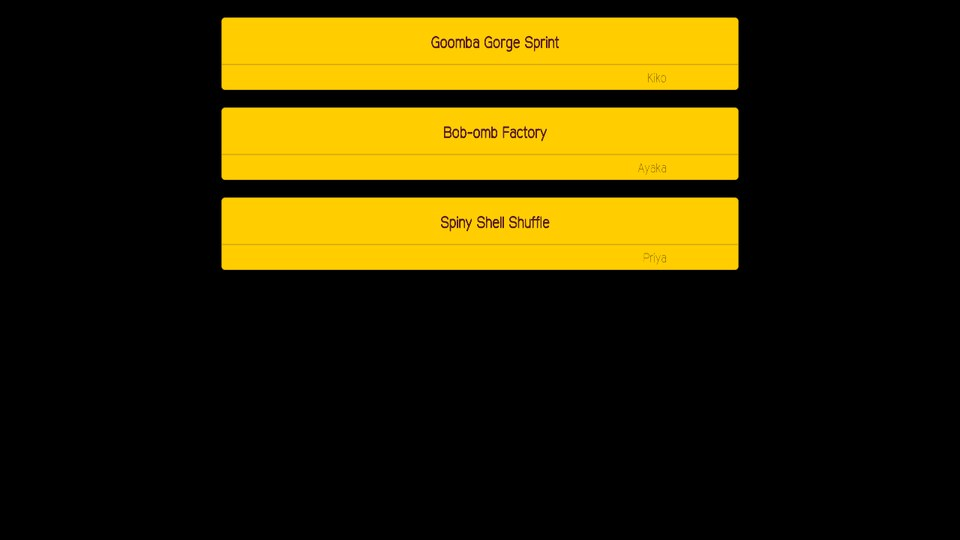
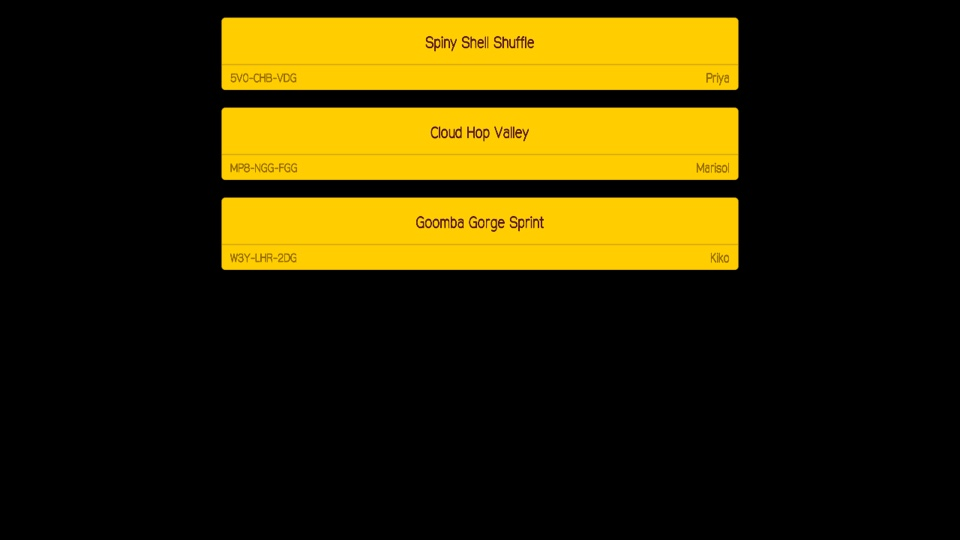
100 Mario credits: each card shows the course ID and the maker the way SMM2's own course card does
The credits' SMM2 course cards (Play_CourseIn_00) now lay out the maker strip as the game does
in Endless: the course ID on the left (new hundred_credit.code, from the data id), the maker's
name on the right, moved into the Mii's empty slot, and the course name centred. The name and
the ID are drawn at the course name's weight. Their border-less brown was a hairline at the
roll's 0.6 scale.

Makefile: game objects now depend on the game's own headers. Before, a struct that grew in
hundred.h left bridge.c stale, and the run start aborted (stack protector).

README credits screenshot retaken on macOS (Metal) with an unattended Super Expert run against
the demo-name test server.

diff --git a/recomp/games/smm2/mods/smm1/ending.c b/recomp/games/smm2/mods/smm1/ending.c
@@ -8,8 +8,9 @@
 //    rows, InOut 1420 frames, "END") for Normal and Expert, _01 (8 rows, 1020, "TO BE CONTINUED...") for Easy, _03
 //    (6 rows, 1020, "THE END") for Super Expert - listing each cleared course (name, maker) under "Course Design".
 //    Each row is drawn in SMM2's look instead of SMM1's Mii row (owner, 2026-10-19: the makers' Miis are not there):
-//    SMM2's own course card (Play_CourseIn_00 from the game's romfs: the yellow course-name banner with the maker
-//    underneath, no Mii, no flag), placed where SMM1's row is on each frame, so the roll keeps SMM1's timing.
+//    SMM2's own course card (Play_CourseIn_00 from the game's romfs: the yellow course-name banner with the course ID
+//    and the maker underneath, no Mii, no flag), placed where SMM1's row is on each frame, so the roll keeps SMM1's
+//    timing.
 //    180 frames after the credits the Mystery Mushroom costume window opens (the costumes mod: hundred_costume_reward).
 // Neither scene reads the controller: nothing skips [obs].
 #include "ending.h"
@@ -98,11 +99,27 @@ Ending *ending_new_style(int d, int n, const struct hundred_credit *c, int style
             lay_hold_end(row, "AnimDefault");
             lay_text(row, "T_CourseName_00", c[i].name);
             lay_text(row, "T_PlayerName_00", c[i].maker);
+            lay_text(row, "T_CourseID_00", c[i].code);
             static const char *hide[] = {"N_Align_00", "N_Info_00", "N_EventAlign_00", "N_EventFirst_00",
                                          "P_GhostVolumenone_00", "L_LoadingGhost_00", "L_MiiIcon_00",
-                                         "L_NationalFlag_00", "T_CourseID_00", "N_Caracter_00", NULL};
+                                         "L_NationalFlag_00", "N_Caracter_00", NULL};
             for (int k = 0; hide[k]; k++) lay_show(row, hide[k], false);
             lay_show(row, "N_MakerAnim_00", true);
+            // as the game lays the card out in Endless [obs: its course-in card]: the name centred (no quest / world
+            // number), the course ID at the left of the maker strip; the maker's name moves right into the Mii's
+            // place, level with the ID's margin [inf: a choice, there is no Mii]
+            float centre[2] = {0, 0}, maker[2] = {64, 0};
+            lyt_set_pane(row->in, "T_CourseName_00", centre, -1);
+            lyt_set_pane(row->in, "N_Maker_00", maker, -1);
+            // the name and ID in the course name's weight: their border-less brown is a hairline at the roll's scale
+            // [inf: a choice; the game draws them at full size]
+            for (int k = 0; k < 2; k++) {
+                int pi = lyt_pane_index(row->res, k ? "T_CourseID_00" : "T_PlayerName_00");
+                if (pi < 0) continue;
+                LPane *p = &row->res->pane[pi];
+                p->txt.flags &= ~4;
+                memcpy(row->res->mat[p->txt.mat].black, row->res->mat[p->txt.mat].white, 3);
+            }
             e->rows[i] = row;
             if (i + 1 > e->nrows) e->nrows = i + 1;
         }

diff --git a/recomp/games/smm2/mods/smm1/flow.c b/recomp/games/smm2/mods/smm1/flow.c
@@ -51,6 +51,9 @@ static void fake_course(int i, struct hundred_credit *c) {
     static const char *makers[8] = {"Luigi", "Toadette", "Peach", "Daisy", "Wario", "Yoshi", "Rosalina", "Kamek"};
     snprintf(c->name, sizeof c->name, "%s %d", names[i % 8], i + 1);
     snprintf(c->maker, sizeof c->maker, "%s", makers[i % 8]);
+    static const char *codes[8] = {"FL2-3HW-MFG", "7KD-QY4-0SG", "R9B-LMG-W1F", "C04-8XN-HJ6",
+                                   "VT3-Q0K-2PD", "M5Y-GJ7-K8R", "B1H-6WD-XQN", "4G0-YK4-T9C"};
+    snprintf(c->code, sizeof c->code, "%s", codes[i % 8]);
 }
 WEAK bool hundred_run_status(struct hundred_status *o) {
     fake.used = true;

diff --git a/recomp/games/smm2/mods/endless.c b/recomp/games/smm2/mods/endless.c
@@ -87,6 +87,7 @@ static void add_credit(uint32_t d, uint64_t id) {  // (state_lock held)
     c->maker[0] = 0;
     for (int i = 0; i < ncourse_names; i++)
         if (course_names[i].id == id) *c = course_names[i].c;
+    data_id_to_code((uint32_t)id, c->code);
 }
 
 static char own_maker_id[16];

diff --git a/recomp/games/smm2/mods/hundred.h b/recomp/games/smm2/mods/hundred.h
@@ -13,6 +13,7 @@
 struct hundred_credit {
     char name[66];   // course name, UTF-8
     char maker[22];  // maker name, UTF-8
+    char code[12];   // course ID, XXX-XXX-XXX ("" if unknown)
 };
 
 struct hundred_status {

diff --git a/README.md b/README.md
@@ -64,7 +64,7 @@ itself. Android and iOS / iPadOS have no download: they're built yourself from s
 
 | Ending | Credits |
 |---|---|
-| ![Peach thanks Mario](docs/screenshots/100mario-ending.jpg) | ![Credits: each cleared course as an SMM2 course card with its maker](docs/screenshots/100mario-credits.jpg) |
+| ![Peach thanks Mario](docs/screenshots/100mario-ending.jpg) | ![Credits: each cleared course as an SMM2 course card with its course ID and maker](docs/screenshots/100mario-credits.jpg) |
 
 ## Status
 
